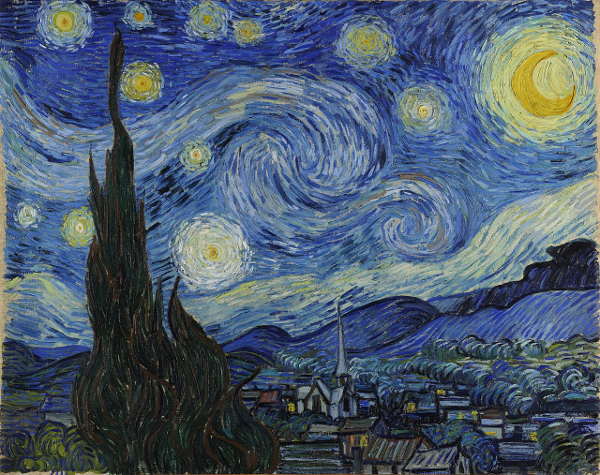
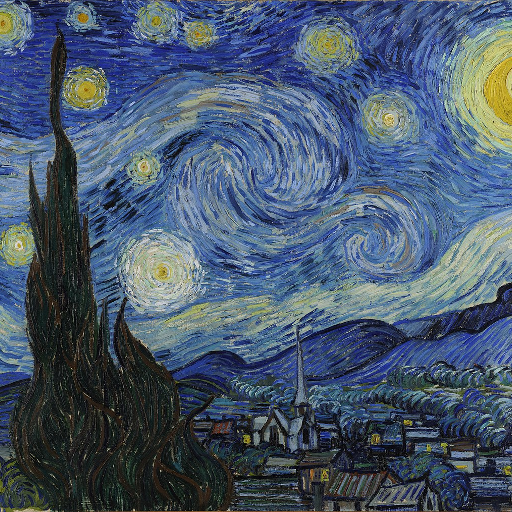
Add textures

diff --git a/assignment1/main.cpp b/assignment1/main.cpp
@@ -2,12 +2,16 @@
 // Unit 5 Assignment 1
 
 #include "shader.h"
+#include "texture.h"
 
 #include <iostream>
 #include <GL/glew.h>
 #include <GLFW/glfw3.h>
 #include <glm/glm.hpp>
 #include <glm/gtx/transform.hpp>
+
+#define STB_IMAGE_IMPLEMENTATION
+#include "lib/stb_image.h"
 
 using namespace std;
 using namespace glm;
@@ -19,7 +23,7 @@ GLuint woodProgram;
 GLuint pictureProgram;
 
 GLuint vertexbuffer;
-GLuint colorbuffer;
+GLuint uvbuffer;
 
 mat4 mvp;
 GLuint brickMVP;
@@ -37,8 +41,8 @@ GLuint woodPct;
 GLuint woodPlane;
 
 GLuint pictureMVP;
-
-GLuint starryNightTex;
+GLuint pictureTexture;
+GLuint starryNight;
 
 mat4 initCamera() {
   mat4 Projection = perspective(radians(45.0f), (float)width / (float)height, 0.1f, 100.0f);
@@ -71,12 +75,18 @@ void initScene() {
     -8.0, -6.0, 6.0,
     8.0, -6.0, 0.0,
     8.0, -6.0, 6.0,
-    -5.5, -0.854, 0.05, // Frame 1
+    /*-5.5, -0.854, 0.05, // Frame 1
     -5.5, 1.0, 0.05,
     -2.5, 1.0, 0.05,
     -5.5, -0.854, 0.05,
     -2.5, 1.0, 0.05,
-    -2.5, -0.854, 0.05,
+    -2.5, -0.854, 0.05,*/
+    -5.5, -2.0, 0.05, // Temp Frame 1
+    -5.5, 1.0, 0.05,
+    -2.5, 1.0, 0.05,
+    -5.5, -2.0, 0.05,
+    -2.5, 1.0, 0.05,
+    -2.5, -2.0, 0.05,
     1.5, -0.854, 0.05, // Frame 2
     1.5, 1.0, 0.05,
     4.5, 1.0, 0.05,
@@ -94,6 +104,49 @@ void initScene() {
   glGenBuffers(1, &vertexbuffer);
   glBindBuffer(GL_ARRAY_BUFFER, vertexbuffer);
   glBufferData(GL_ARRAY_BUFFER, sizeof(g_vertex_buffer_data), g_vertex_buffer_data, GL_STATIC_DRAW);
+
+  static const GLfloat g_uv_buffer_data[] = {
+    0.0, 0.0, // Wall 1
+    0.0, 0.0,
+    0.0, 0.0,
+    0.0, 0.0,
+    0.0, 0.0,
+    0.0, 0.0,
+    0.0, 0.0, // Wall 2
+    0.0, 0.0,
+    0.0, 0.0,
+    0.0, 0.0,
+    0.0, 0.0,
+    0.0, 0.0,
+    0.0, 0.0, // Floor
+    0.0, 0.0,
+    0.0, 0.0,
+    0.0, 0.0,
+    0.0, 0.0,
+    0.0, 0.0,
+    0.0, 0.0, // Frame 1
+    0.0, 1.0,
+    1.0, 1.0,
+    0.0, 0.0,
+    1.0, 1.0,
+    1.0, 0.0,
+    0.0, 0.0, // Frame 2
+    0.0, 1.0,
+    1.0, 1.0,
+    0.0, 0.0,
+    1.0, 1.0,
+    1.0, 0.0,
+    0.0, 0.0, // Frame 3
+    0.0, 1.0,
+    1.0, 1.0,
+    0.0, 0.0,
+    1.0, 1.0,
+    1.0, 0.0
+  };
+
+  glGenBuffers(1, &uvbuffer);
+  glBindBuffer(GL_ARRAY_BUFFER, uvbuffer);
+  glBufferData(GL_ARRAY_BUFFER, sizeof(g_uv_buffer_data), g_uv_buffer_data, GL_STATIC_DRAW);
 }
 
 void initialize(int argc, char * argv[]) {
@@ -121,6 +174,14 @@ void initialize(int argc, char * argv[]) {
 
   pictureMVP = glGetUniformLocation(pictureProgram, "MVP");
 
+  Texture starryNightTex = Texture("images/starry_night.png");
+  if(!starryNightTex.load()) {
+    cout << "There was a problem loading Starry Night" << endl;
+  }
+  starryNight = starryNightTex.id();
+
+  pictureTexture = glGetUniformLocation(pictureProgram, "Picture");
+
   GLuint VertexArrayID;
   glGenVertexArrays(1, &VertexArrayID);
   glBindVertexArray(VertexArrayID);
@@ -134,9 +195,20 @@ void initialize(int argc, char * argv[]) {
 }
 
 void drawScene() {
+  // Bind Textures
+  glActiveTexture(GL_TEXTURE0);
+  glBindTexture(GL_TEXTURE_2D, starryNight);
+
+  //glActiveTexture(GL_TEXTURE1);
+  //glBindTexture(GL_TEXTURE_2D, blueHorsesTex);
+
   glEnableVertexAttribArray(0);
     glBindBuffer(GL_ARRAY_BUFFER, vertexbuffer);
     glVertexAttribPointer(0, 3, GL_FLOAT, GL_FALSE, 0, (void*)0);
+
+  glEnableVertexAttribArray(1);
+    glBindBuffer(GL_ARRAY_BUFFER, uvbuffer);
+    glVertexAttribPointer(1, 2, GL_FLOAT, GL_FALSE, 0, (void*)0);
 
     glUseProgram(brickProgram);
       glUniformMatrix4fv(brickMVP, 1, GL_FALSE, &mvp[0][0]);
@@ -161,9 +233,11 @@ void drawScene() {
 
     glUseProgram(pictureProgram);
       glUniformMatrix4fv(pictureMVP, 1, GL_FALSE, &mvp[0][0]);
+      glUniform1i(pictureTexture, 0);
       glDrawArrays(GL_TRIANGLES, 18, 18);
 
   glDisableVertexAttribArray(0);
+  glDisableVertexAttribArray(1);
 }
 
 void render() {

diff --git a/assignment1/texture.cpp b/assignment1/texture.cpp
@@ -1,0 +1,33 @@
+#include "texture.h"
+
+Texture::Texture(const char* filename) : path(filename) {
+}
+
+Texture::~Texture() {
+  stbi_image_free(image);
+}
+
+bool Texture::load() {
+  stbi_set_flip_vertically_on_load(true);
+  image = stbi_load(
+    path,
+    &width,
+    &height,
+    &comp,
+    STBI_rgb
+  );
+  if(!image) return false;
+
+  glGenTextures(1, &texture);
+  glBindTexture(GL_TEXTURE_2D, texture);
+  glTexParameteri(GL_TEXTURE_2D, GL_TEXTURE_MAG_FILTER, GL_NEAREST);
+  glTexParameteri(GL_TEXTURE_2D, GL_TEXTURE_MIN_FILTER, GL_NEAREST);
+  glTexImage2D(GL_TEXTURE_2D, 0, GL_RGB, width, height, 0, GL_RGB, GL_UNSIGNED_BYTE, image);
+  glGenerateMipmap(GL_TEXTURE_2D);
+
+  return true;
+}
+
+GLuint Texture::id() {
+  return texture;
+}

diff --git a/assignment1/texture.h b/assignment1/texture.h
@@ -1,0 +1,22 @@
+#ifndef TEXTURE
+#define TEXTURE
+
+#include <GL/glew.h>
+#include "lib/stb_image.h"
+
+class Texture {
+  const char* path;
+  unsigned char* image;
+  int width;
+  int height;
+  int comp;
+  GLuint texture;
+
+public:
+  Texture(const char* filename);
+  ~Texture();
+  bool load();
+  GLuint id();
+};
+
+#endif
